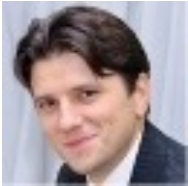
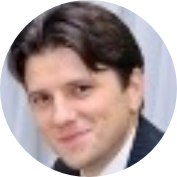
M

diff --git a/htdocs/resources/views/people.blade.php b/htdocs/resources/views/people.blade.php
@@ -55,6 +55,14 @@
             }
         }
         .img-responsive{width:100%;}
+
+        .alignleft {
+          float: left;
+        }
+        .alignright {
+          float: right;
+        }
+
         </style>
     </head>
     <body>
@@ -72,7 +80,7 @@
         <div class="row ">
           <div class="col-md-12 header">
               <img src="/img/ibm.png" class="img-responsive" style="width:5%" alt="IBM_logo" >
-              <h2 style="margin:0;color:#FFFFFF">Digital Inn<img src="/img/watson_white.png" class="img-responsive" style="width:30px;display:inline-block" alt="IBM_logo" >vati<img src="/img/watson_white.png" class="img-responsive" style="width:30px;display:inline-block" alt="IBM_logo" >n Lab</h2>
+              <h2 style="margin:0;color:#FFFFFF">Digital Inn<img src="/img/watson_white.png" class="img-responsive" style="width:30px;display:inline-block" alt="IBM_logo">vati<img src="/img/watson_white.png" class="img-responsive" style="width:30px;display:inline-block" alt="IBM_logo" >n Lab</h2>
               <h5 style="margin:0; color:#DDDEE0">Innovations that matter</h5>
               <div class="menu">
                 <div class="collapse navbar-collapse">
@@ -96,7 +104,10 @@
 
         <div class="row">
             <div class="col-md-12">
-                <h3 class="subtitle">People</h3>
+                <!-- <p class="subtitle alighleft">People  </p> -->
+                <!-- <p class="subtitle alignright" align="right">Click on the profile image to get redirected to LinkedIn profile.</p> -->
+
+              <p style="text-align:left; font-size:180%">People<span style="float:right; font-size:54%">*Click on the profile image to get redirected to LinkedIn profile.</span></p>
             </div>
         </div>
 
@@ -112,15 +123,14 @@
         <div class="row ">
           <div class="col-md-1 "></div>
 
-          <div class="col-md-2 text-center">
-            <a href="https://www.linkedin.com/in/a24choi" target="_blank">
-              <img src="/img/andrew.png" height="150" width="150" alt="profile" >
+          <div class="col-md-2 text-center" >
+              <a href="https://ca.linkedin.com/in/msashek" target="_blank" >
+              <img src="/img/ashek.png" height="150" width="150" alt="profile" >
             </a>
-            <p class="title name">Andrew Choi </p>
-            <p>University of Waterloo, Co-op</p>
-            <p>iOS, Internet of Things</p>
-            <p>achoi@ca.ibm.com</p>
-          </div>
+            <p class=" name">Mahmood (M.S.) Ashek</p>
+            <p>Executive Sponsor</p>
+            <a href="mailto:mashek@ca.ibm.com?Subject=IBM%20Innovation%20Lab" target="_blank">mashek@ca.ibm.com</a>
+          </div>          
 
           <div class="col-md-2 text-center">
             <a href="https://www.linkedin.com/in/mehrannajafi" target="_blank">
@@ -130,7 +140,7 @@
             <p class="name">Najafi, PhD</p>
             <p class="title">Lab Supervisor,</p>
             <p>Solution Architect</p>
-            <p>mehranna@ca.ibm.com</p>
+            <a href="mailto:mehranna@ca.ibm.com?Subject=IBM%20Innovation%20Lab" target="_blank">mehranna@ca.ibm.com</a>
           </div>
 
           <div class="col-md-2 text-center">
@@ -141,7 +151,7 @@
             <p class="name">Maheswaramoorthy</p>
             <p class="title">Solution Architect</p>
             <p>Co-op Coordinator</p>
-            <p>subashan@ca.ibm.com</p>
+            <a href="mailto:subashan@ca.ibm.com?Subject=IBM%20Innovation%20Lab" target="_blank">subashan@ca.ibm.com</a>
           </div>
 
           <div class="col-md-2 text-center">
@@ -149,48 +159,48 @@
               <img src="/img/imad.png" height="150" width="150"  alt="profile" >
             </a>
             <p class=" name">Imad Obeid </p>
-
             <p>Solution Architect</p>
-            <p>imad@ca.ibm.com</p>
+            <a href="mailto:imad@ca.ibm.com?Subject=IBM%20Innovation%20Lab" target="_blank">imad@ca.ibm.com</a>
           </div>
+
+           <div class="col-md-2 text-center">
+            <a href="https://www.linkedin.com/" target="_blank">
+              <img src="/img/radu.png" height="150" width="150" alt="profile" >
+            </a>
+            <p class=" name">Radu Bolboceanu </p>
+            <p>Graphic Designer</p>
+            <a href="mailto:radub@ca.ibm.com?Subject=IBM%20Innovation%20Lab" target="_blank">radub@ca.ibm.com</a>
+          </div>
+
+          <div class="col-md-1 "></div>
+        </div>
+
+
+        <div class="row ">
+          <div class="col-md-1 "></div>
 
           <div class="col-md-2 text-center">
             <a href="https://ca.linkedin.com/in/jeremyaleung" target="_blank">
               <img src="/img/jeremy.png" height="150" width="150" alt="profile" >
             </a>
             <p class=" name">Jeremy Leung</p>
-
             <p>Graphic Designer</p>
-            <p>jeremy@ca.ibm.com</p>
+            <a href="mailto:leung@ca.ibm.com?Subject=IBM%20Innovation%20Lab" target="_blank">leung@ca.ibm.com</a>
           </div>
-
-          <div class="col-md-1 "></div>
-        </div>
-
-        <div class="row ">
-
-          <div class="col-md-1 "></div>
+         
 
           <div class="col-md-2 text-center">
-            <a href="https://www.linkedin.com/" target="_blank">
-              <img src="/img/radu.png" height="150" width="150" alt="profile" >
+            <a href="https://www.linkedin.com/in/a24choi" target="_blank">
+              <img src="/img/andrew.png" height="150" width="150" alt="profile" >
             </a>
-            <p class=" name">Radu Bolboceanu </p>
-            <p>Graphic Designer</p>
-            <p>radu@ca.ibm.com</p>
+            <p class="title name">Andrew Choi </p>
+            <p>uWaterloo, Co-op</p>
+            <p>iOS, Internet of Things</p>
+            <a href="mailto:achoi@ca.ibm.com?Subject=IBM%20Innovation%20Lab" target="_blank">achoi@ca.ibm.com</a>
           </div>
-
-          <div class="col-md-2 text-center" >
-              <a href="https://ca.linkedin.com/in/msashek" target="_blank" >
-              <img src="/img/ashek.jpg" height="150" width="105" alt="profile" >
-            </a>
-            <p class=" name">Mahmood (M.S.) Ashek</p>
-            <p>Executive Sponsor</p>
-            <p>mashek@ca.ibm.com</p>
-          </div>
+          
 
           <div class="col-md-2 text-center">
-
           </div>
 
           <div class="col-md-1 "></div>
@@ -215,7 +225,7 @@
             <p class="title name">David Park </p>
             <p>University of Waterloo, Co-op</p>
             <p>Virtual Reality</p>
-            <p>davidp@ca.ibm.com</p>
+            <a href="mailto:davidp@ca.ibm.com?Subject=IBM%20Innovation%20Lab" target="_blank">davidp@ca.ibm.com</a>
           </div>
 
           <div class="col-md-2 text-center">
@@ -225,7 +235,7 @@
             <p class="title name">Andrew Frolkin</p>
             <p>University of Waterloo, Co-op</p>
             <p>iOS</p>
-            <p>andrewf@ca.ibm.com</p>
+            <a href="mailto:andrewf@ca.ibm.com?Subject=IBM%20Innovation%20Lab" target="_blank">andrewf@ca.ibm.com</a>
           </div>
 
 

diff --git a/htdocs/resources/views/welcome.blade.php b/htdocs/resources/views/welcome.blade.php
@@ -347,7 +347,7 @@
                   </div>
                 <div class ="col-md-6">
                     <h4 class="title">Out of Band Authentication </h4>
-                    <p class="subtitle">Technologies: IOS, Web</p>
+                    <p class="subtitle">Technologies: iOS, Web</p>
                     <p class="subtitle">Industry: Banking</p>
                     <br>
                     <div class="wrapper">
@@ -403,7 +403,7 @@
                   </div>
                 <div class ="col-md-6">
                     <h4 class="title">SensorTag Luggage Tracker</h4>
-                    <p class="subtitle">Technologies: IOT, Android</p>
+                    <p class="subtitle">Technologies: IoT, Android</p>
                     <p class="subtitle">Industry: Transportation</p>
                     <br>
                     <div class="wrapper">
@@ -465,7 +465,7 @@
                   <div class ="col-md-6">
                     <h4 class="title">IBM Family Financial Advisor</h4>
                     <p class="subtitle">Technologies: iOS, Web, Watson</p>
-                    <p class="subtitle">Industry: Banking</p>
+                    <p class="subtitle">Industry: Finance, Banking</p>
                     <br>
                     <div class="wrapper">
                       <div class="small_div">
